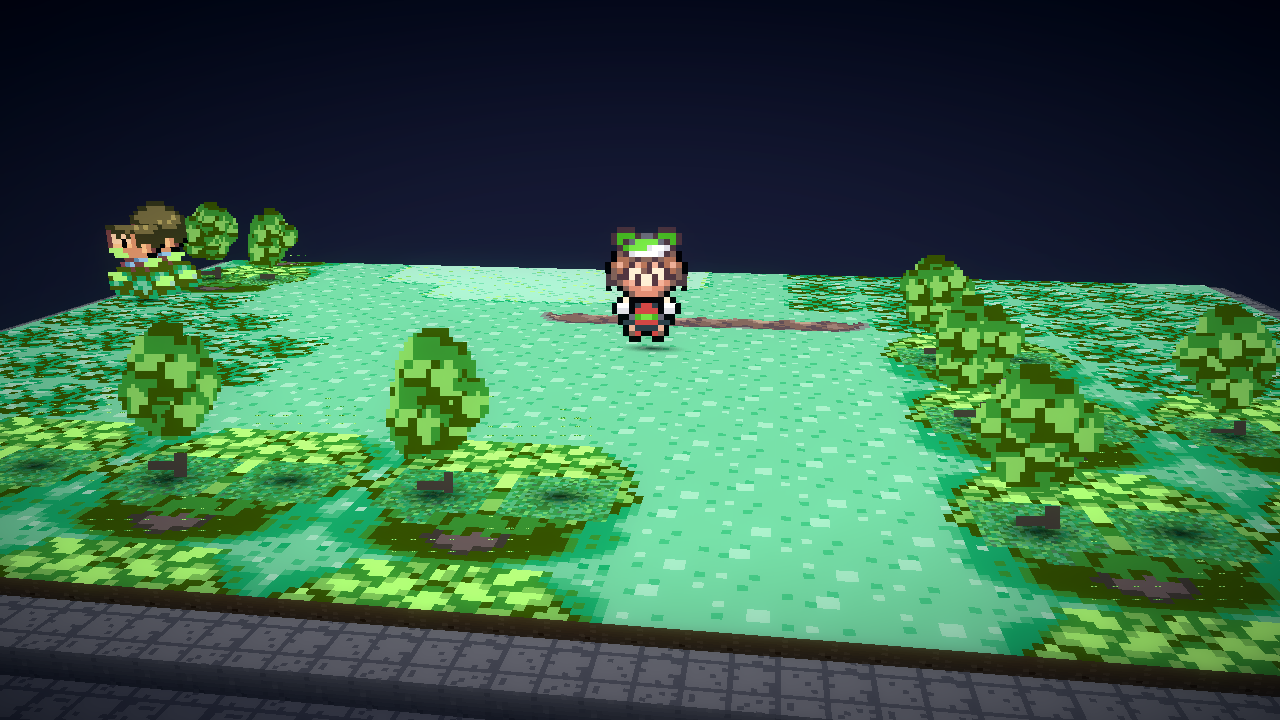
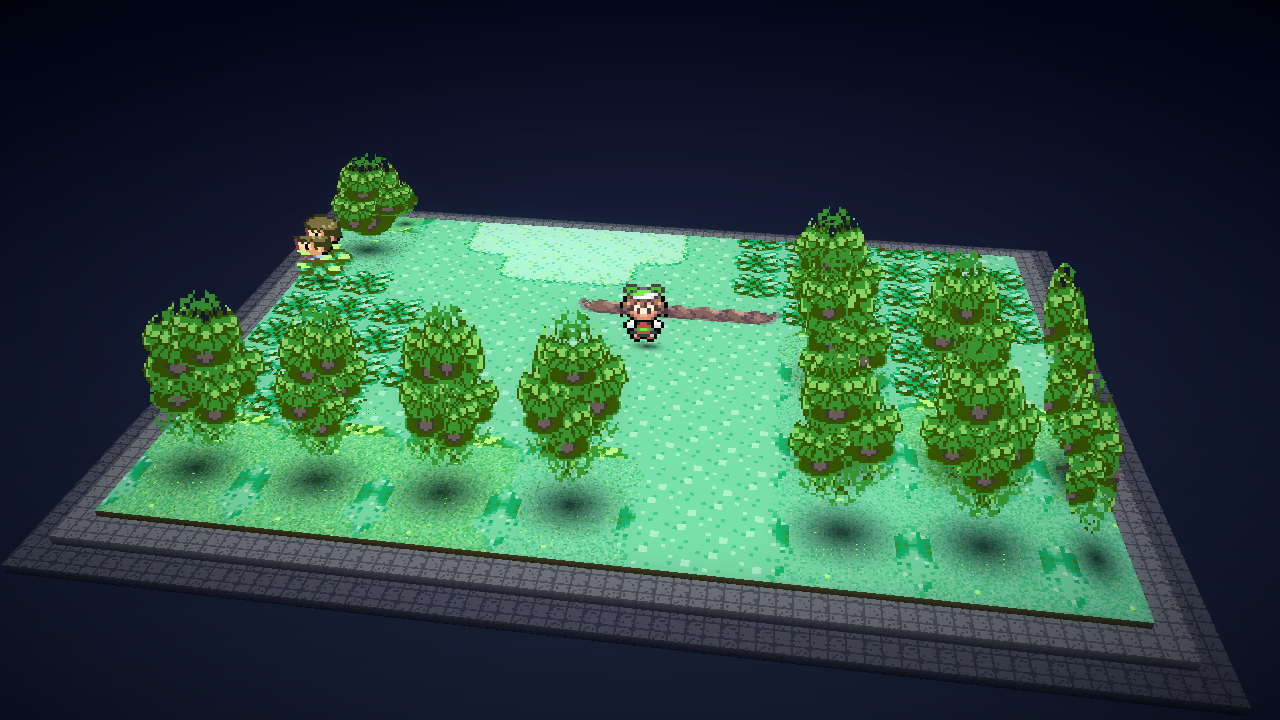
Detect full multi-tile tree canopies instead of berry-tree speckles

diff --git a/gba_diorama/relief.py b/gba_diorama/relief.py
@@ -163,6 +163,19 @@ def _morph(mask: np.ndarray, *, erode: bool, iterations: int) -> np.ndarray:
     return out
 
 
+def _canopy_texture(
+    image: np.ndarray,
+    bbox: tuple[int, int, int, int],
+    mask: np.ndarray,
+    canopy_h: int,
+) -> np.ndarray:
+    x0, y0, x1, y1 = bbox
+    texture = np.zeros((y1 - y0, x1 - x0, 4), dtype=np.uint8)
+    texture[..., :3] = image[y0:y1, x0:x1, :3]
+    texture[..., 3] = (mask * 255).astype(np.uint8)
+    return texture
+
+
 def _attach_trunk(
     image: np.ndarray,
     hue: np.ndarray,
@@ -208,7 +221,7 @@ def _attach_trunk(
     rx0 = max(0, cx - half)
     rx1 = min(width, cx + half + 1)
     if search_y1 <= y1 or rx1 <= rx0:
-        return bbox, mask, None, 0
+        return bbox, mask, _canopy_texture(image, bbox, mask, y1 - y0), y1 - y0
 
     region = (slice(y1, search_y1), slice(rx0, rx1))
     # Brown/grey trunk: low hue, low-ish value, not the bright green canopy.
@@ -218,7 +231,7 @@ def _attach_trunk(
         & (value[region] < 0.62)
     )
     if not trunk.any():
-        return bbox, mask, None, 0
+        return bbox, mask, _canopy_texture(image, bbox, mask, y1 - y0), y1 - y0
 
     seen = np.zeros_like(trunk, dtype=bool)
     best: tuple[int, int, int, int] | None = None
@@ -258,7 +271,7 @@ def _attach_trunk(
                 best = (rx0 + min_x, y1 + min_y, rx0 + max_x + 1, y1 + max_y + 1)
 
     if best is None:
-        return bbox, mask, None, 0
+        return bbox, mask, _canopy_texture(image, bbox, mask, y1 - y0), y1 - y0
 
     tx0, ty0, tx1, ty1 = best
     trunk_h = ty1 - ty0
@@ -287,11 +300,11 @@ def detect_canopies(
     image: np.ndarray,
     *,
     min_area: int = 48,
-    hue_min: float = 90.0,
-    hue_max: float = 140.0,
-    saturation_min: float = 0.35,
-    value_max: float = 0.80,
-    open_iterations: int = 1,
+    hue_min: float = 55.0,
+    hue_max: float = 148.0,
+    saturation_min: float = 0.20,
+    value_max: float = 0.95,
+    open_iterations: int = 2,
 ) -> list[CanopyComponent]:
     """Find saturated green blobs that look like tree/hedge canopies."""
 
@@ -543,8 +556,8 @@ def make_side_view_card(component: CanopyComponent) -> np.ndarray | None:
     ) & 0xFFFFFFFF
     rng = np.random.default_rng(seed)
 
-    out_w = max(10, min(96, int(round(width * rng.uniform(1.45, 1.75)))))
-    crown_h = max(14, min(128, int(round(canopy_h * rng.uniform(1.55, 1.85)))))
+    out_w = max(10, min(96, int(round(width * rng.uniform(1.05, 1.25)))))
+    crown_h = max(14, min(128, int(round(canopy_h * rng.uniform(1.15, 1.35)))))
     trunk_h = max(3, int(round(max(1, height - canopy_h) * rng.uniform(0.7, 1.0))))
     out = np.zeros((crown_h + trunk_h, out_w, 4), dtype=np.uint8)
 

diff --git a/gba_diorama/profiles.py b/gba_diorama/profiles.py
@@ -155,10 +155,11 @@ class LayerProfile:
     detector: str = "green"
     min_area: int = 48
     min_alpha: int = 8
-    hue_min: float = 90.0
-    hue_max: float = 140.0
-    saturation_min: float = 0.35
-    value_max: float = 0.80
+    hue_min: float = 55.0
+    hue_max: float = 148.0
+    saturation_min: float = 0.20
+    value_max: float = 0.95
+    open_iterations: int = 2
 
     @property
     def is_ground(self) -> bool:
@@ -284,10 +285,11 @@ def _layer_from_dict(data: dict[str, Any], source: str) -> LayerProfile:
         detector=detector,
         min_area=_parse_int(data.get("min_area", 48)),
         min_alpha=_parse_int(data.get("min_alpha", 8)),
-        hue_min=float(data.get("hue_min", 90.0)),
-        hue_max=float(data.get("hue_max", 140.0)),
-        saturation_min=float(data.get("saturation_min", 0.35)),
-        value_max=float(data.get("value_max", 0.80)),
+        hue_min=float(data.get("hue_min", 55.0)),
+        hue_max=float(data.get("hue_max", 148.0)),
+        saturation_min=float(data.get("saturation_min", 0.20)),
+        value_max=float(data.get("value_max", 0.95)),
+        open_iterations=int(data.get("open_iterations", 2)),
     )
 
 

diff --git a/gba_diorama/dump.py b/gba_diorama/dump.py
@@ -333,6 +333,7 @@ def _detect_objects(image: np.ndarray, layer: LayerProfile):
         hue_max=layer.hue_max,
         saturation_min=layer.saturation_min,
         value_max=layer.value_max,
+        open_iterations=layer.open_iterations,
     )
 
 

diff --git a/README.md b/README.md
@@ -20,7 +20,7 @@ The first real result comes from an mGBA dump of Pokémon Emerald's Route 101:
 The dump loader picked BG2 as the ground from layer content (BG3 is a
 low-detail backdrop in this scene), composited the backdrop into transparent
 holes, cropped the player out of the OBJ layer, and rendered it as a billboard
-on a tilted plinth. It also detects saturated-green canopy regions in BG2,
+on a tilted plinth. It also detects foliage-colored canopy regions in BG2,
 separates touching trees with a morphological opening, and builds each tree
 into a side-view card from the game's own pixels: a seeded procedural RNG
 varies the crown proportions and overlapping lobes, and the actual trunk art is
@@ -220,12 +220,13 @@ sparse-overlay skip.
 - No affine BG, bitmap BG, windows, mosaic, or GBA alpha/brightness effects.
 - Real sprites are cropped from the composited OBJ layer; OAM/OBJ tile decoding
   is still a primitive, not a full per-sprite renderer.
-- Canopy cards are a green-color heuristic, not semantic understanding: they do
-  not yet separate trees from green buildings. The side-view generator is
+- Canopy cards are a foliage-color heuristic, not semantic understanding: they
+  do not yet separate trees from green buildings. The side-view generator is
   deliberately procedural (seeded by each component bbox) and keeps the GBA
   palette, but the source art is top-down; the result reads as stylized pop-up
-  sprites, not hand-painted Octopath foliage. Dense multi-tile forests still
-  need better component splitting and depth-card volume.
+  sprites, not hand-painted Octopath foliage. Multi-tile trees are handled as
+  one component, but dense forests still need better splitting and depth-card
+  volume, and the tiny source trunks can be hard to read at near-edge angles.
 - Sparse foreground layers are still skipped by default until height inference
   can tell tree canopies from buildings.
 - Profiles are opt-in (`--profile`); there is no automatic profile discovery or

diff --git a/docs/DESIGN.md b/docs/DESIGN.md
@@ -144,9 +144,12 @@ materials; a real integration will infer them.
 `relief.py` adds a generic card heuristic for tree canopies that are painted
 into the ground layer rather than living on a separate BG:
 
-- Convert the composited ground to HSV and select saturated green pixels.
-- Morphologically open the mask to break one-pixel outlines that connect
-  adjacent trees, then take 4-connected components.
+- Convert the composited ground to HSV and select foliage colors broadly
+  (`hue 55-148`, `saturation >= 0.20`, `value <= 0.95`) so the whole dark/light
+  canopy is captured, not just the bright berry-tree speckles.
+- Morphologically open the mask twice to break thin outlines/grass and split
+  adjacent trees, then take 4-connected components. The component bbox can span
+  many 8x8 tiles; detection runs on the full BG image, not per tile.
 - Extend each component through a narrow band of connected dark pixels to pick
   up the trunk/outline, without letting dark ground shadows merge neighbors.
 - Compose the canopy pixels and the actual trunk pixels without the grass gap,

diff --git a/AGENTS.md b/AGENTS.md
@@ -86,7 +86,7 @@ Dependencies: Python 3.10+, `numpy`, `pillow`; tests use `pytest`.
 - `tools/run-mgba-diorama.sh`: desktop-GL mGBA launcher (2× scale, muted).
 - `profiles/emerald-route101.toml`: example profile matching the real Route 101
   signature (BG2 ground with automatic canopy cards, BG3 backdrop ignored,
-  BG1 billboard leaves; camera 16°/320/8°).
+  BG1 billboard leaves; camera 35°/480/8°).
 - `tests/`: 43 tests covering decode, dump round-trip, profiles, atlas
   stitching/coverage, parallax, canopy relief/cards, ground compositing, mesh,
   render, post, fallback, determinism.
